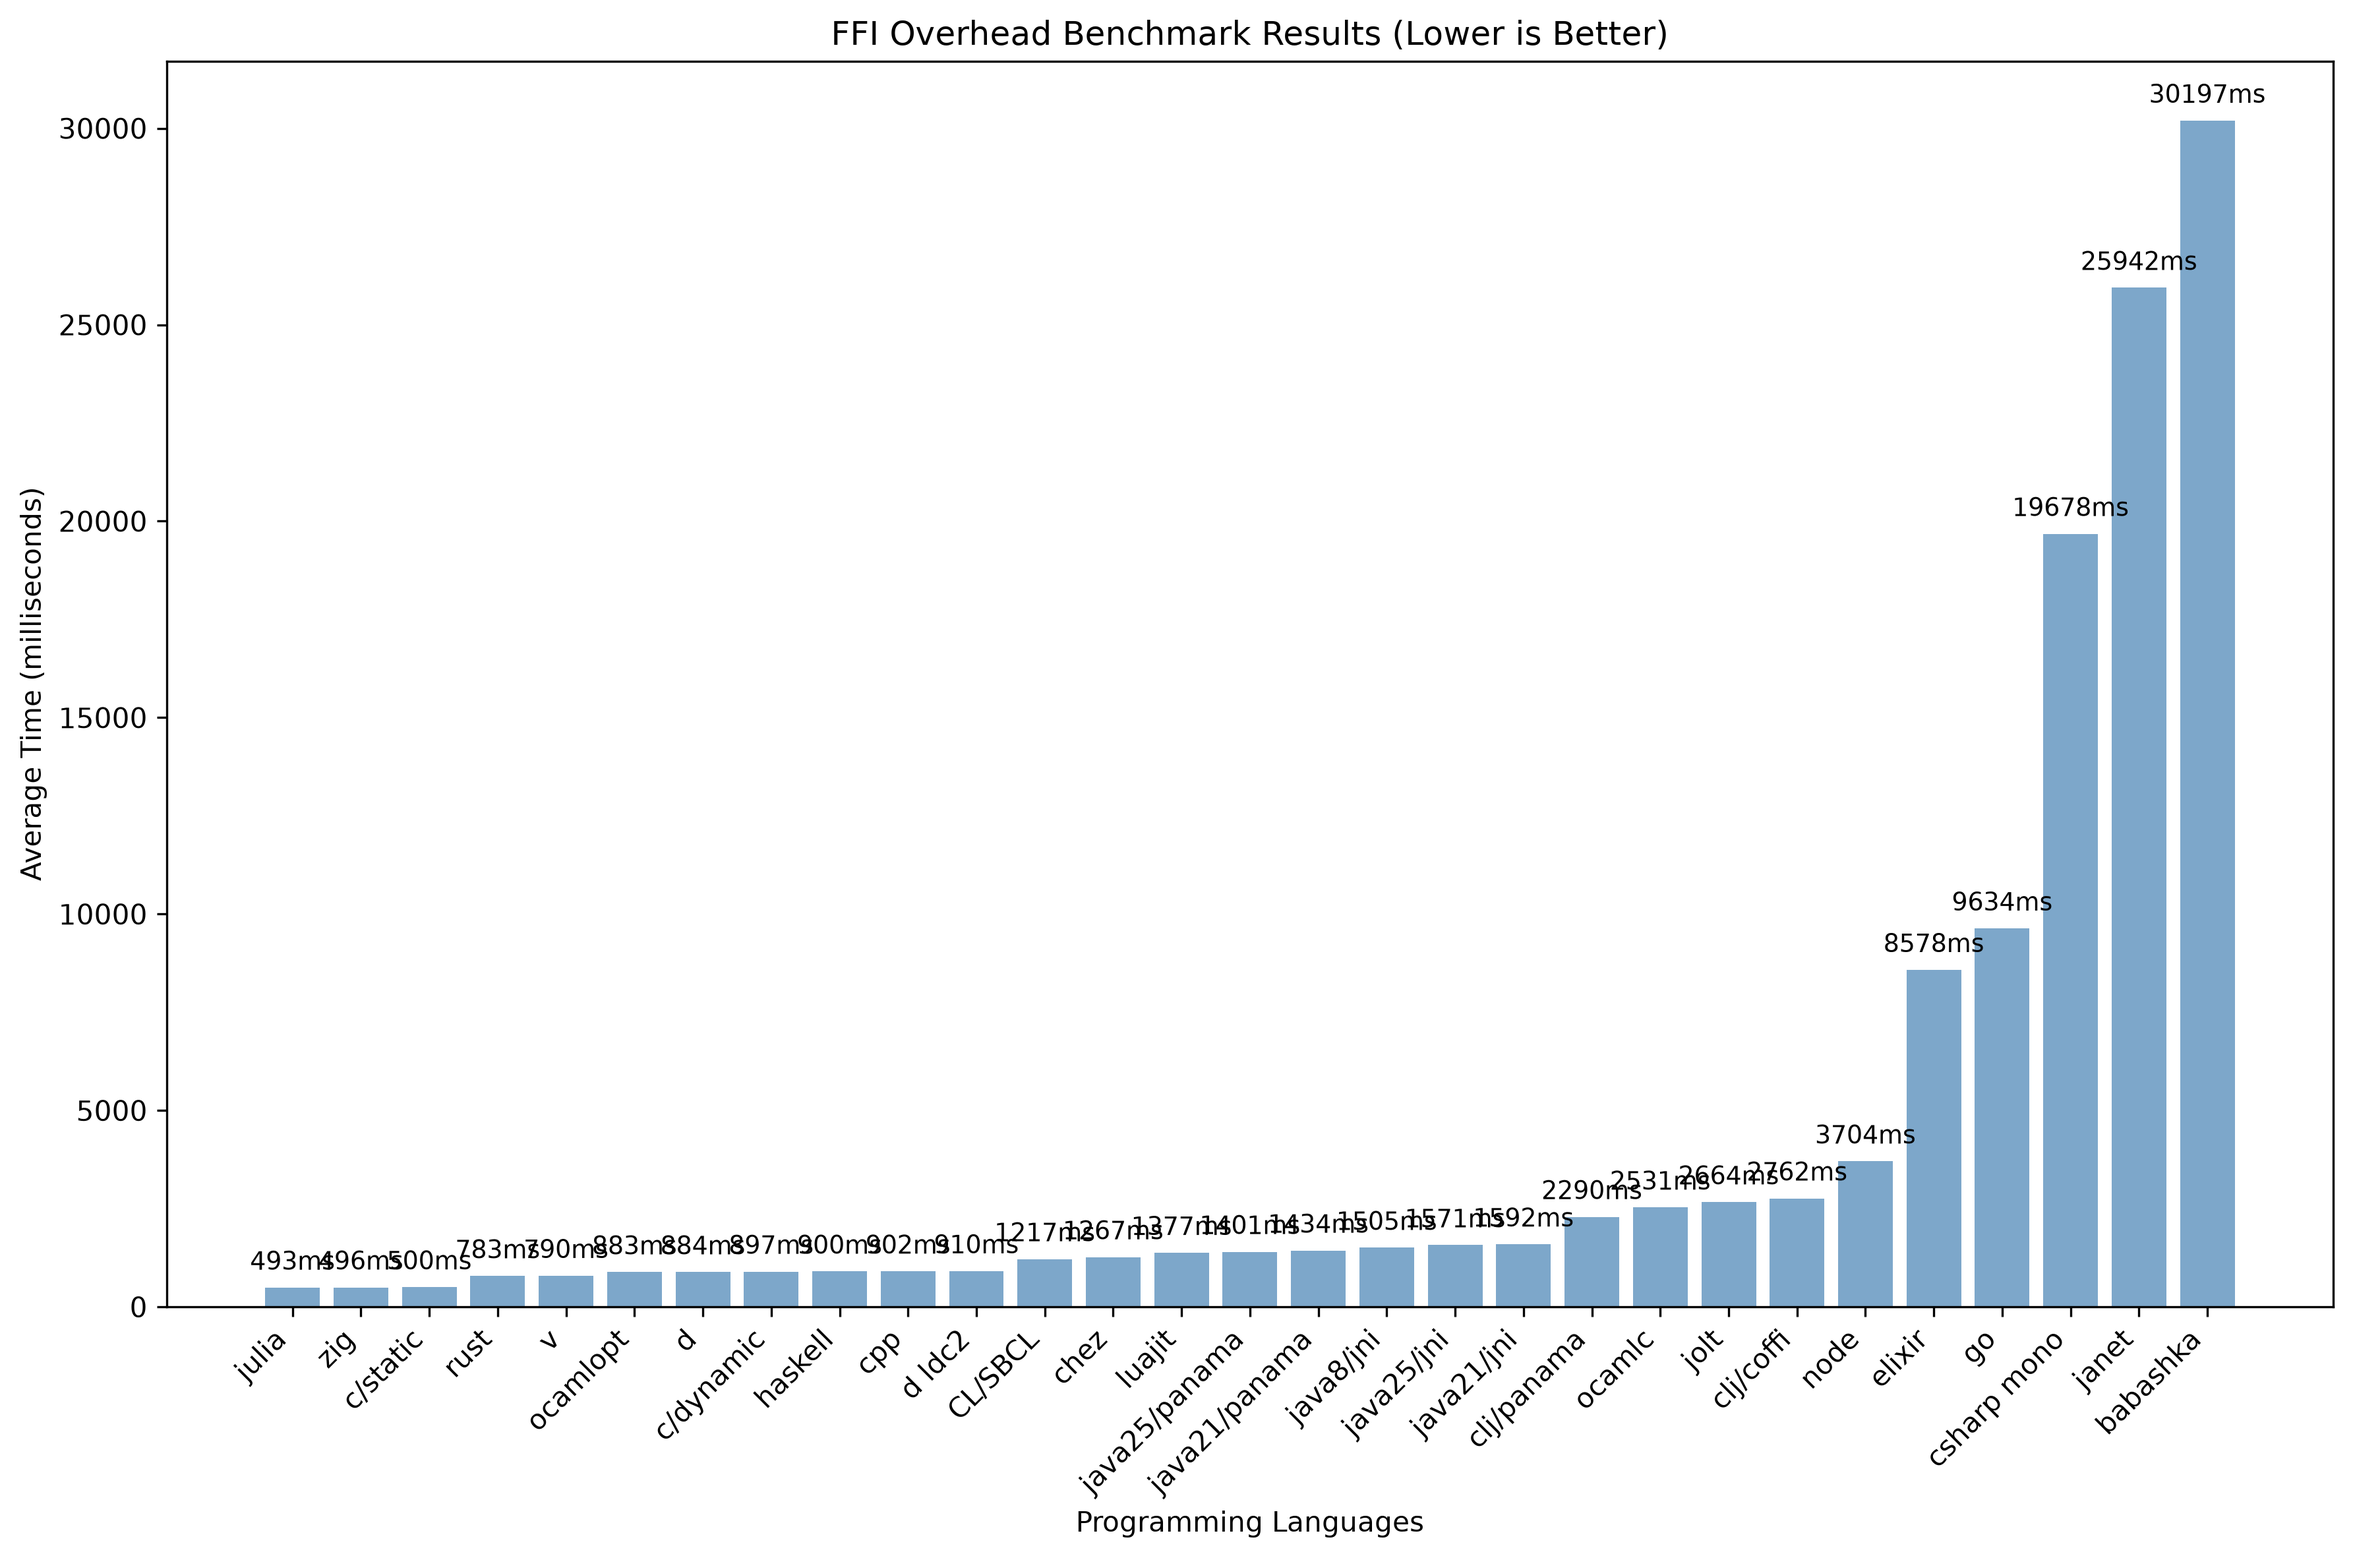
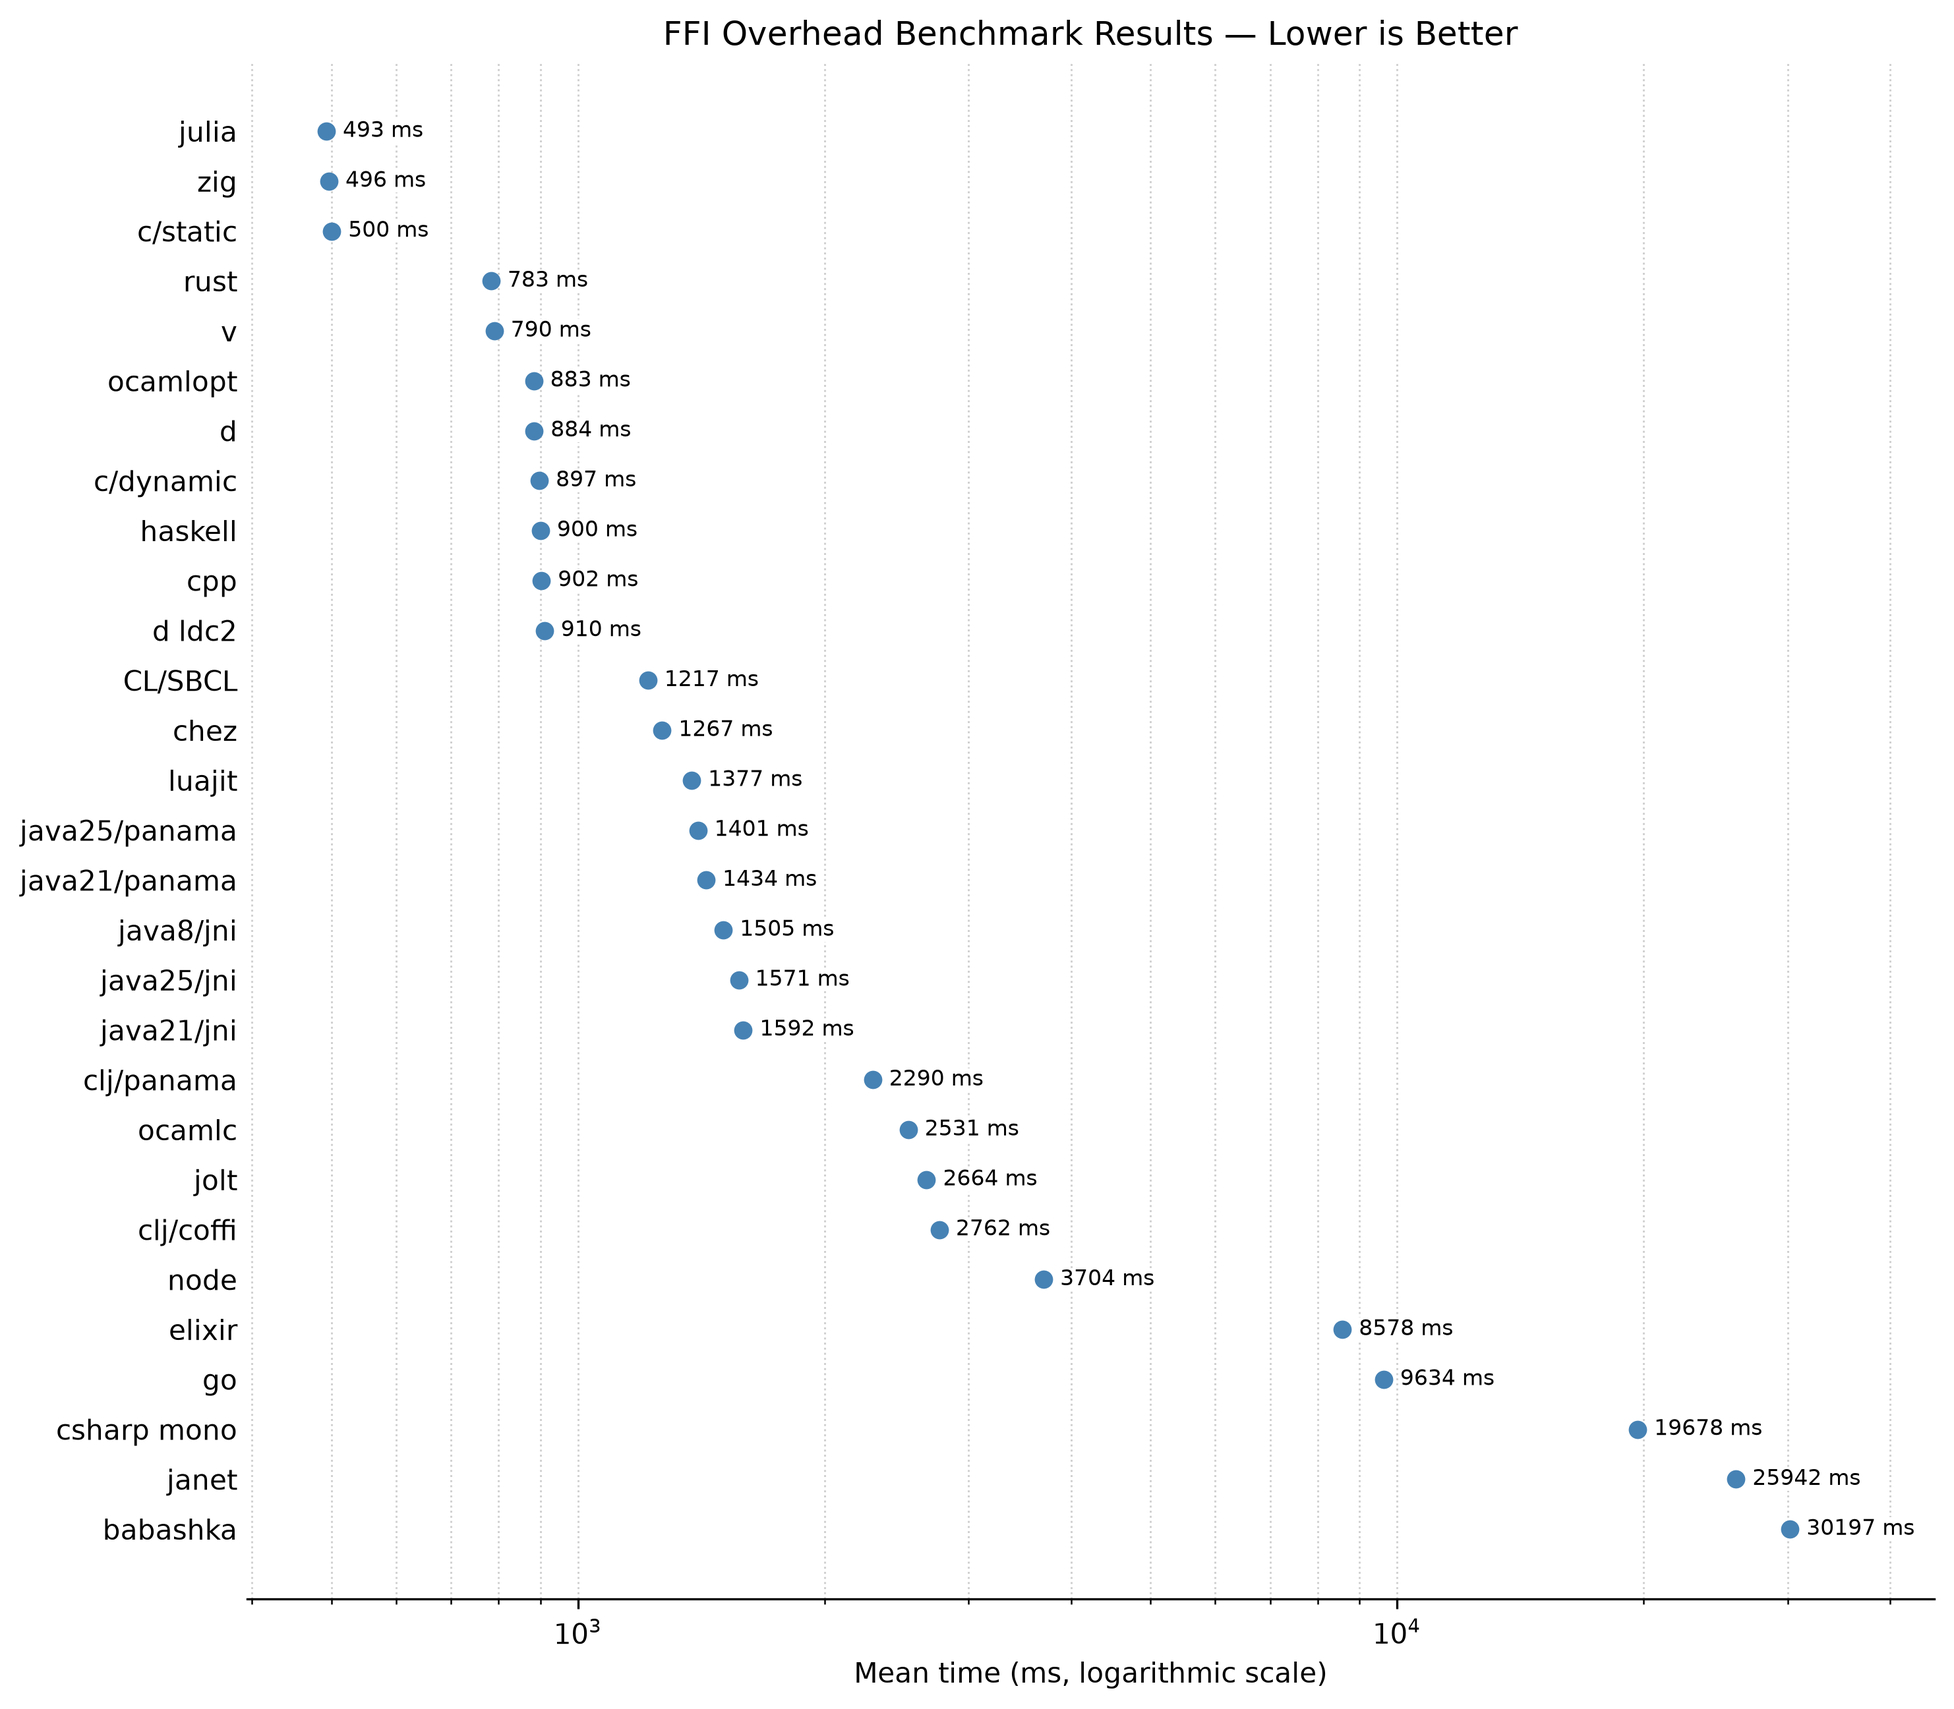
bench: make benchmark chart labels readable

diff --git a/bench.py b/bench.py
@@ -534,32 +534,40 @@ def create_chart(averages, filename):
     except ImportError:
         return False
 
-    sorted_items = sorted(averages.items(), key=lambda x: x[1])
+    sorted_items = sorted(averages.items(), key=lambda item: item[1])
     languages, times = zip(*sorted_items)
+    positions = range(len(languages))
 
-    fig, ax = plt.subplots(figsize=(12, 8))
-    bars = ax.bar(range(len(languages)), times, color="steelblue", alpha=0.7)
+    fig, ax = plt.subplots(figsize=(10, max(5, len(languages) * 0.25 + 1.5)))
+    ax.scatter(times, positions, color="steelblue", s=32, zorder=3)
 
-    ax.set_xlabel("Programming Languages")
-    ax.set_ylabel("Average Time (milliseconds)")
-    ax.set_title("FFI Overhead Benchmark Results (Lower is Better)")
-    ax.set_xticks(range(len(languages)))
-    ax.set_xticklabels(languages, rotation=45, ha="right")
+    ax.set_xscale("log")
+    ax.set_xlim(min(times) / 1.25, max(times) * 1.5)
+    ax.set_xlabel("Mean time (ms, logarithmic scale)")
+    ax.set_title("FFI Overhead Benchmark Results — Lower is Better")
+    ax.set_yticks(positions, labels=languages)
+    ax.invert_yaxis()
+    ax.grid(axis="x", which="both", linestyle=":", linewidth=0.7, alpha=0.6)
+    ax.set_axisbelow(True)
+    ax.tick_params(axis="y", length=0)
+    for spine in ("top", "right", "left"):
+        ax.spines[spine].set_visible(False)
 
-    for bar, time in zip(bars, times):
-        height = bar.get_height()
-        ax.text(
-            bar.get_x() + bar.get_width() / 2.0,
-            height + max(times) * 0.01,
-            f"{time:.0f}ms",
-            ha="center",
-            va="bottom",
-            fontsize=9,
+    for position, time in zip(positions, times):
+        ax.annotate(
+            f"{time:.0f} ms",
+            (time, position),
+            xytext=(6, 0),
+            textcoords="offset points",
+            ha="left",
+            va="center",
+            fontsize=8,
+            bbox={"facecolor": "white", "edgecolor": "none", "pad": 0.2},
         )
 
-    plt.tight_layout()
-    plt.savefig(filename, dpi=300, bbox_inches="tight")
-    plt.close()
+    fig.tight_layout()
+    fig.savefig(filename, dpi=300, bbox_inches="tight")
+    plt.close(fig)
     return True
 
 

diff --git a/README.md b/README.md
@@ -10,7 +10,7 @@ comparing the c ffi overhead on various programming languages
 
 ![FFI Overhead Benchmark Results for 2026-08](data/2026-08/chart.png)
 
-*Chart shows average execution times across 10 runs. Lower values are better.*
+*Chart shows average execution times across 10 runs on a logarithmic scale. Lower values are better.*
 
 Raw data: [data/2026-08/data.csv](./data/2026-08/data.csv)
 
